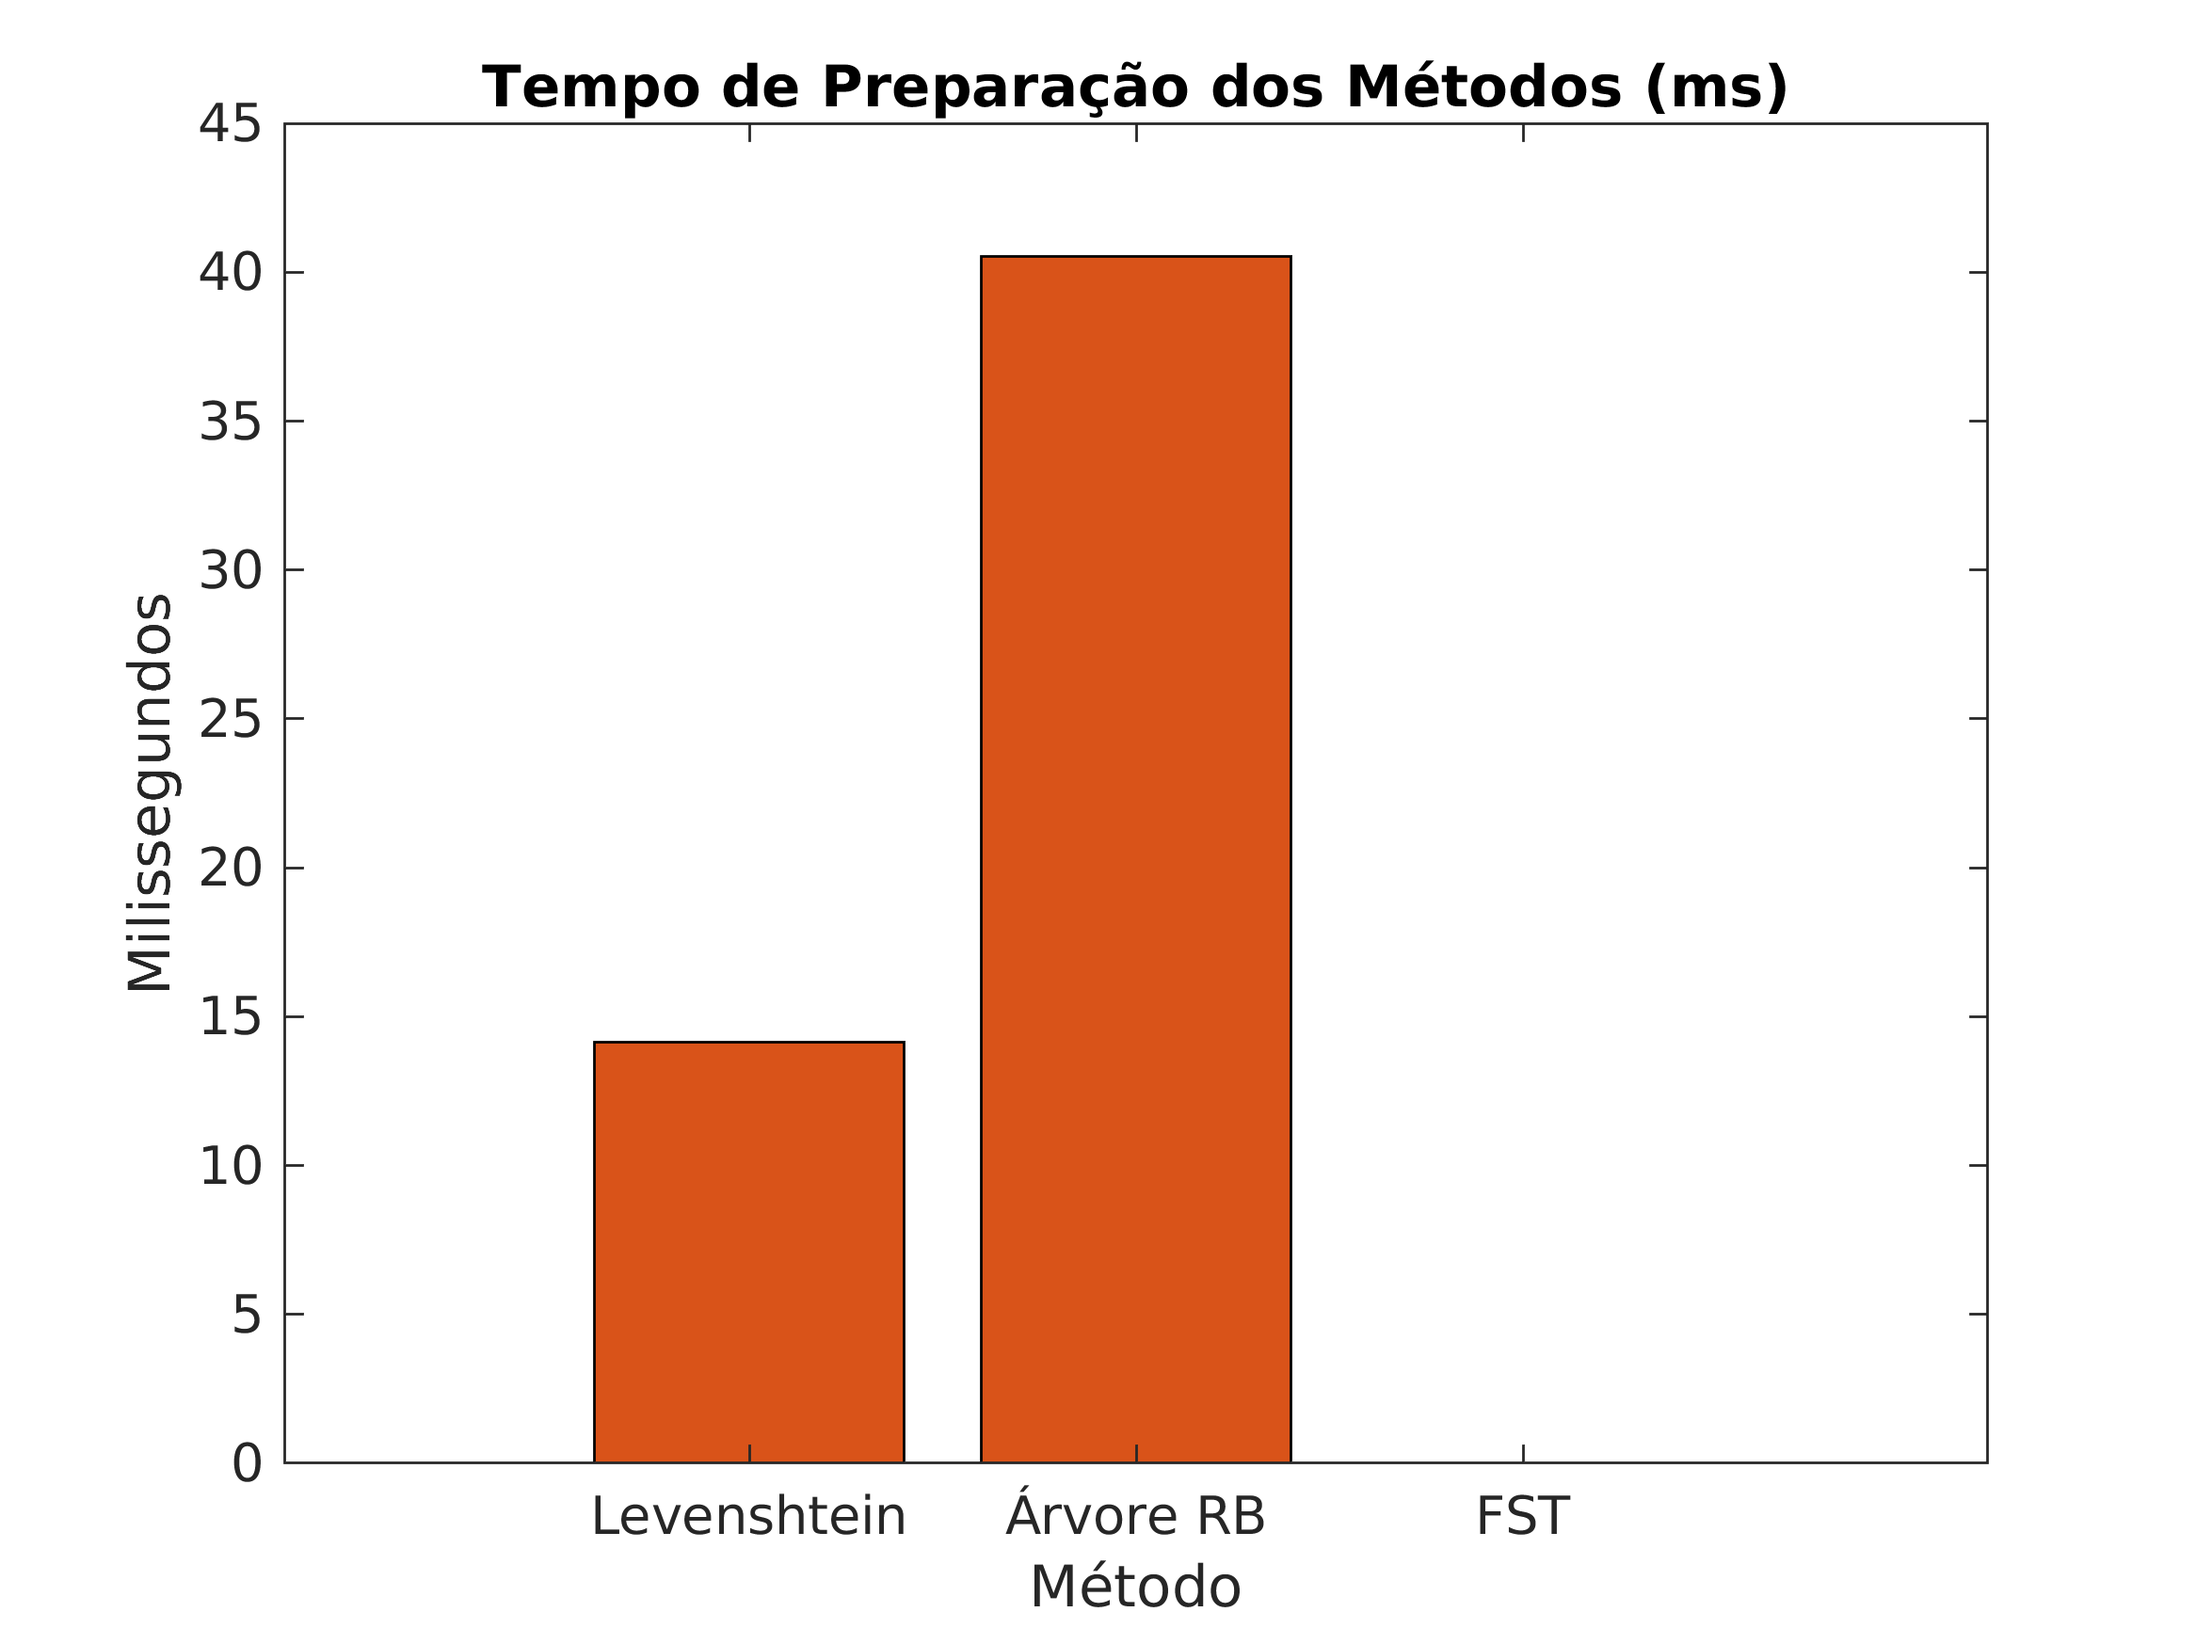
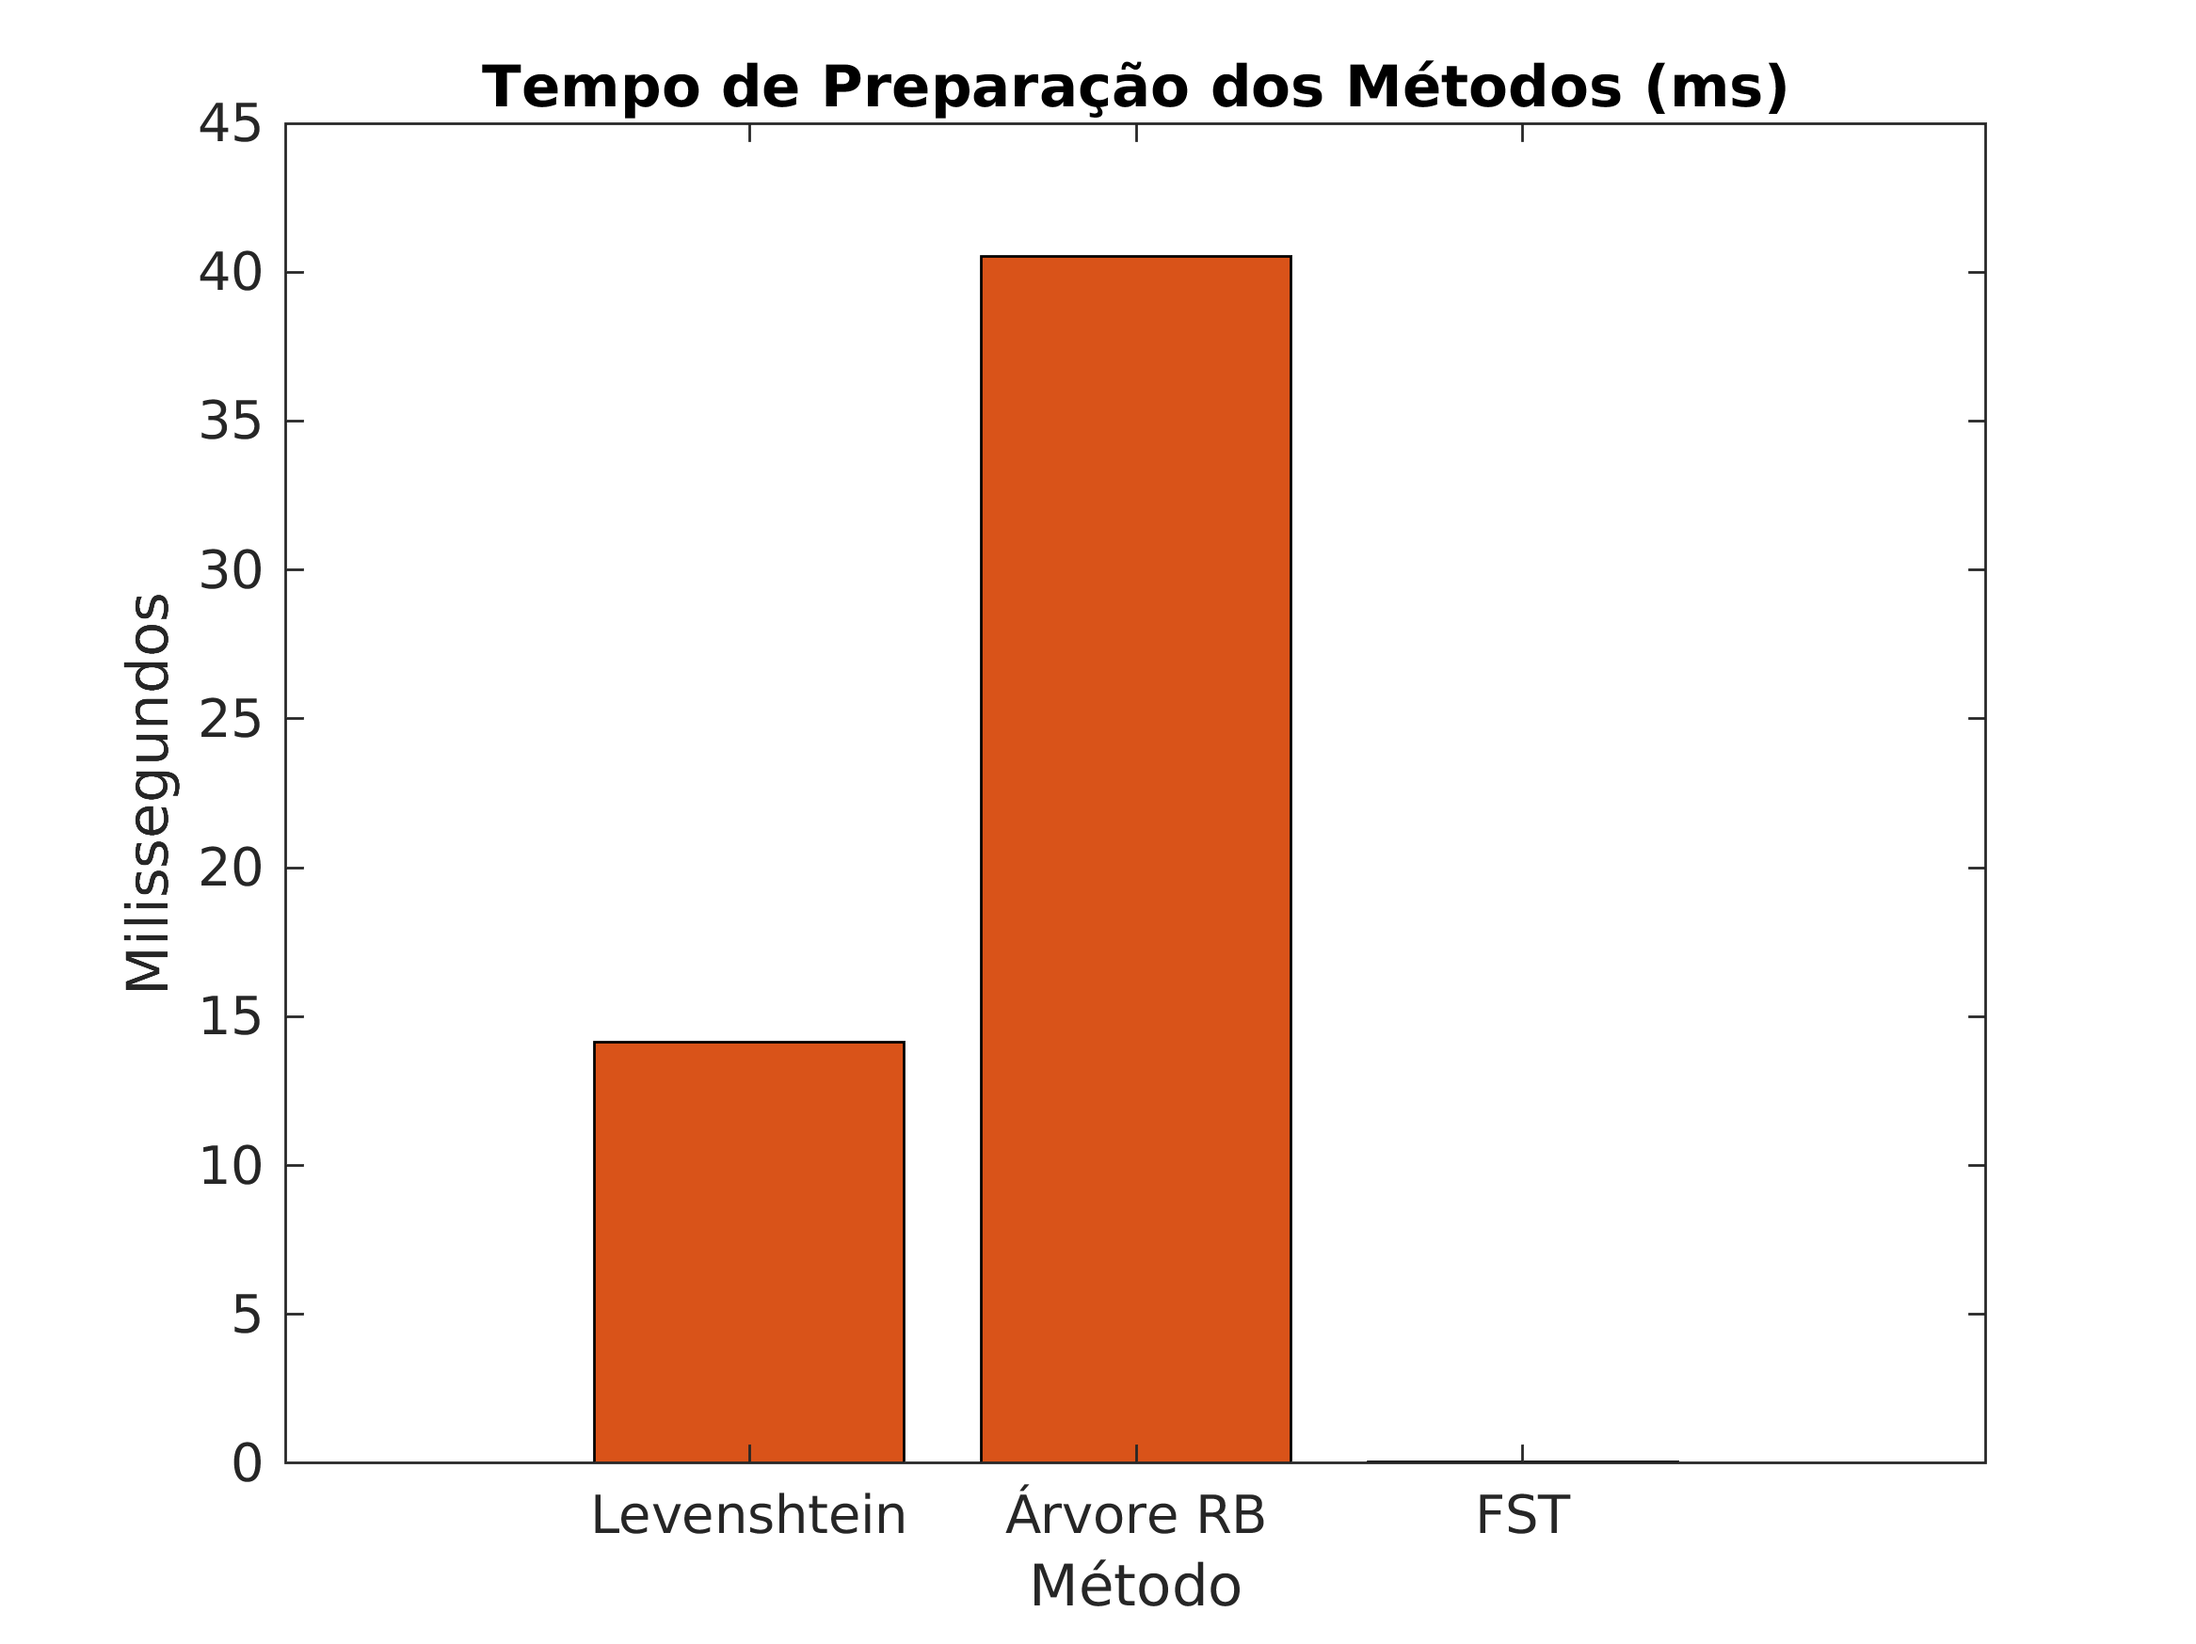
Further changes to README

Changed region(s): [[0.0617, 0.4637, 0.0926, 0.5255], [0.4938, 0.9582, 0.5246, 0.9891], [0.0617, 0.3709, 0.0926, 0.4018]]

diff --git a/src/Analysis/StatisticsGraphs.m b/src/Analysis/StatisticsGraphs.m
@@ -8,13 +8,22 @@ fst_stats = readtable('../../binaries/fst_statistics.csv');
 prep_time = [leven_stats.executionTime_ns_(1), rb_stats.executionTime_ns_(1), fst_stats.executionTime_ns_(1)];
 bar(prep_time / 10^6, 'FaceColor', '#D95319');
 hold on;
-title("Tempo de Preparação dos Métodos (ms)");
-ylabel("Milissegundos");
+title("Tempo de Preparação dos Métodos");
+ylabel("Tempo (ms)");
 xlabel("Método");
 set(gca, 'xticklabel', {'Levenshtein', 'Árvore RB', 'FST'});
 hold off;
 
 print -dpng -r400 dict_creation.png
+
+%% Studying the Used Dictionary
+dictionary = readtable('/usr/share/dict/american-english').A;
+letters = cellfun(@(s)lower(s(1)), dictionary);
+[GC, GR] = groupcounts(letters);
+bar(GC)
+xticklabels({'a', 'e', 'j', 'o', 't', 'y'});
+GR
+print -dpng -r400 dict_dist.png
 
 %% Single Character
 % Levenshtein
@@ -22,7 +31,7 @@ leven_char = leven_stats.executionTime_ns_(2:27);
 
 plot(leven_char(:, 1) / 10^6, 'LineWidth', 1.5, 'Color', '#0072BD');
 hold on;
-title("Char Único");
+title("Caractere Único - Levenshtein");
 ylabel("Tempo (ms)");
 xlabel("Caractere");
 xticks([1, 6, 12, 18, 26]);
@@ -36,7 +45,7 @@ rb_char = rb_stats.executionTime_ns_(2:27);
 
 plot(rb_char(:, 1) / 10^3, 'LineWidth', 1.5, 'Color', '#D95319');
 hold on;
-title("Char Único");
+title("Caractere Único - RB Tree");
 ylabel("Tempo (us)");
 xlabel("Caractere");
 xticks([1, 6, 12, 18, 26]);

diff --git a/README.md b/README.md
@@ -1,29 +1,43 @@
-# Auto-Complete Implementation
+# Exame Final CTC-34
 
 - Arthur Costa Stevenson Mota
 - Eduardo de Moura Simplício
 - Matheus Silva Ramos
 
----
-
 O Exame Final da disciplina CTC-34 consiste em realizar a implementação de um *auto-complete* usando diferentes algoritmos, e então realizar comparações entre eles. Nesse caso, foram feitas as duas implementações obrigatórias, sendo elas um Autômato de Levenshtein, e um Transdutor de Estado Finito e, para a implementação opcional, foi escolhida a Árvore Rubro-Negra.
 A seguir, estão os testes realizados para comparar os três diferentes algoritmos em diferentes contextos.
+
+## Análise do Dicionário Usado
+
+Para o estudo da eficiência do *auto-complete*, foi utilizado o dicionário disponibilizado juntamente ao Linux, para o Inglês Americano. Na Figura 1, pode-se observar a distribuição das palavras no dicionário, de acordo com as suas primeiras letras.
+
+| ![dictdist](./src/Analysis/dict_dist.png) |
+|-|
+|Figura 2: Distribuição de palavras no dicionário de acordo com as suas letras iniciais. Nota-se que as cinco letras com mais entradas, em ordem decrescente, são 'S', 'C', 'P', 'B' e 'M'.|
 
 ## Criação dos Dicionários
 
 Antes de serem realizados quaiser testes quanto à velocidade de execução do algoritmo de *auto-complete*, os três diferentes algoritmos precisam completar uma etapa de preparação. No caso do Autômato de Levenshtein, isso significa importar as palavras do dicionário para uma lista que será percorrida, para a Árvore RB e o FST, criar as suas estruturas típicas, com base no dicionário de palavras especificado.
 
-Assim, os tempos de preparação de cada um dos algoritmos estão apresentados no gráfico da [Figura 1](preptime).
+Assim, os tempos de preparação de cada um dos algoritmos estão apresentados no gráfico da Figura 1. Analisando-se os resultados apresentados na figura, nota-se que o tempo de preparação do Autômato de Levenshtein é significativamente menor que os demais, o que se deve ao fato de esta etapa, para esse algoritmo, ser constituída simplesmente pela adição das *strings* do dicionário, sem que computações adicionais sejam feitas.
 
 | ![preptime](./src/Analysis/dict_creation.png) |
 |-|
-|Figura 1: Tempos de preparação dos três métodos estudados.
-
+|Figura 2: Tempos de preparação dos três métodos estudados.|
 
 ## Testes com Caractere Único
 
 Para uma comparação inicial, foram feitos testes de *auto-complete* utilizando-se apenas um caractere. Os gráficos abaixo apresentam o tempo de execução dos três algoritmos implementados, Levenshtein considerando distância 1, Árvore Rubro-Negra, e FST.
 
-Levenshtein | Red Black Tree | FST
-:-:|:-: | :-:
-![levenchar](./src/Analysis/leven_char.png) | ![levenchar](./src/Analysis/rb_char.png)
+|![levenstr](./src/Analysis/leven_char.png)|
+| :-: |
+|Figura 3: Tempos de execução para cada letra do alfabeto do autômato de Levenshtein com distância 1.|
+
+|![rbstr](./src/Analysis/rb_char.png)|
+| :-: |
+|Figura 4: Tempos de execução para cada letra do alfabeto da árvore rubro-negra.|
+
+|![fststr](./src/Analysis/rb_char.png)|
+| :-: |
+|Figura 5: Tempos de execução para cada letra do alfabeto do FST.|
+
